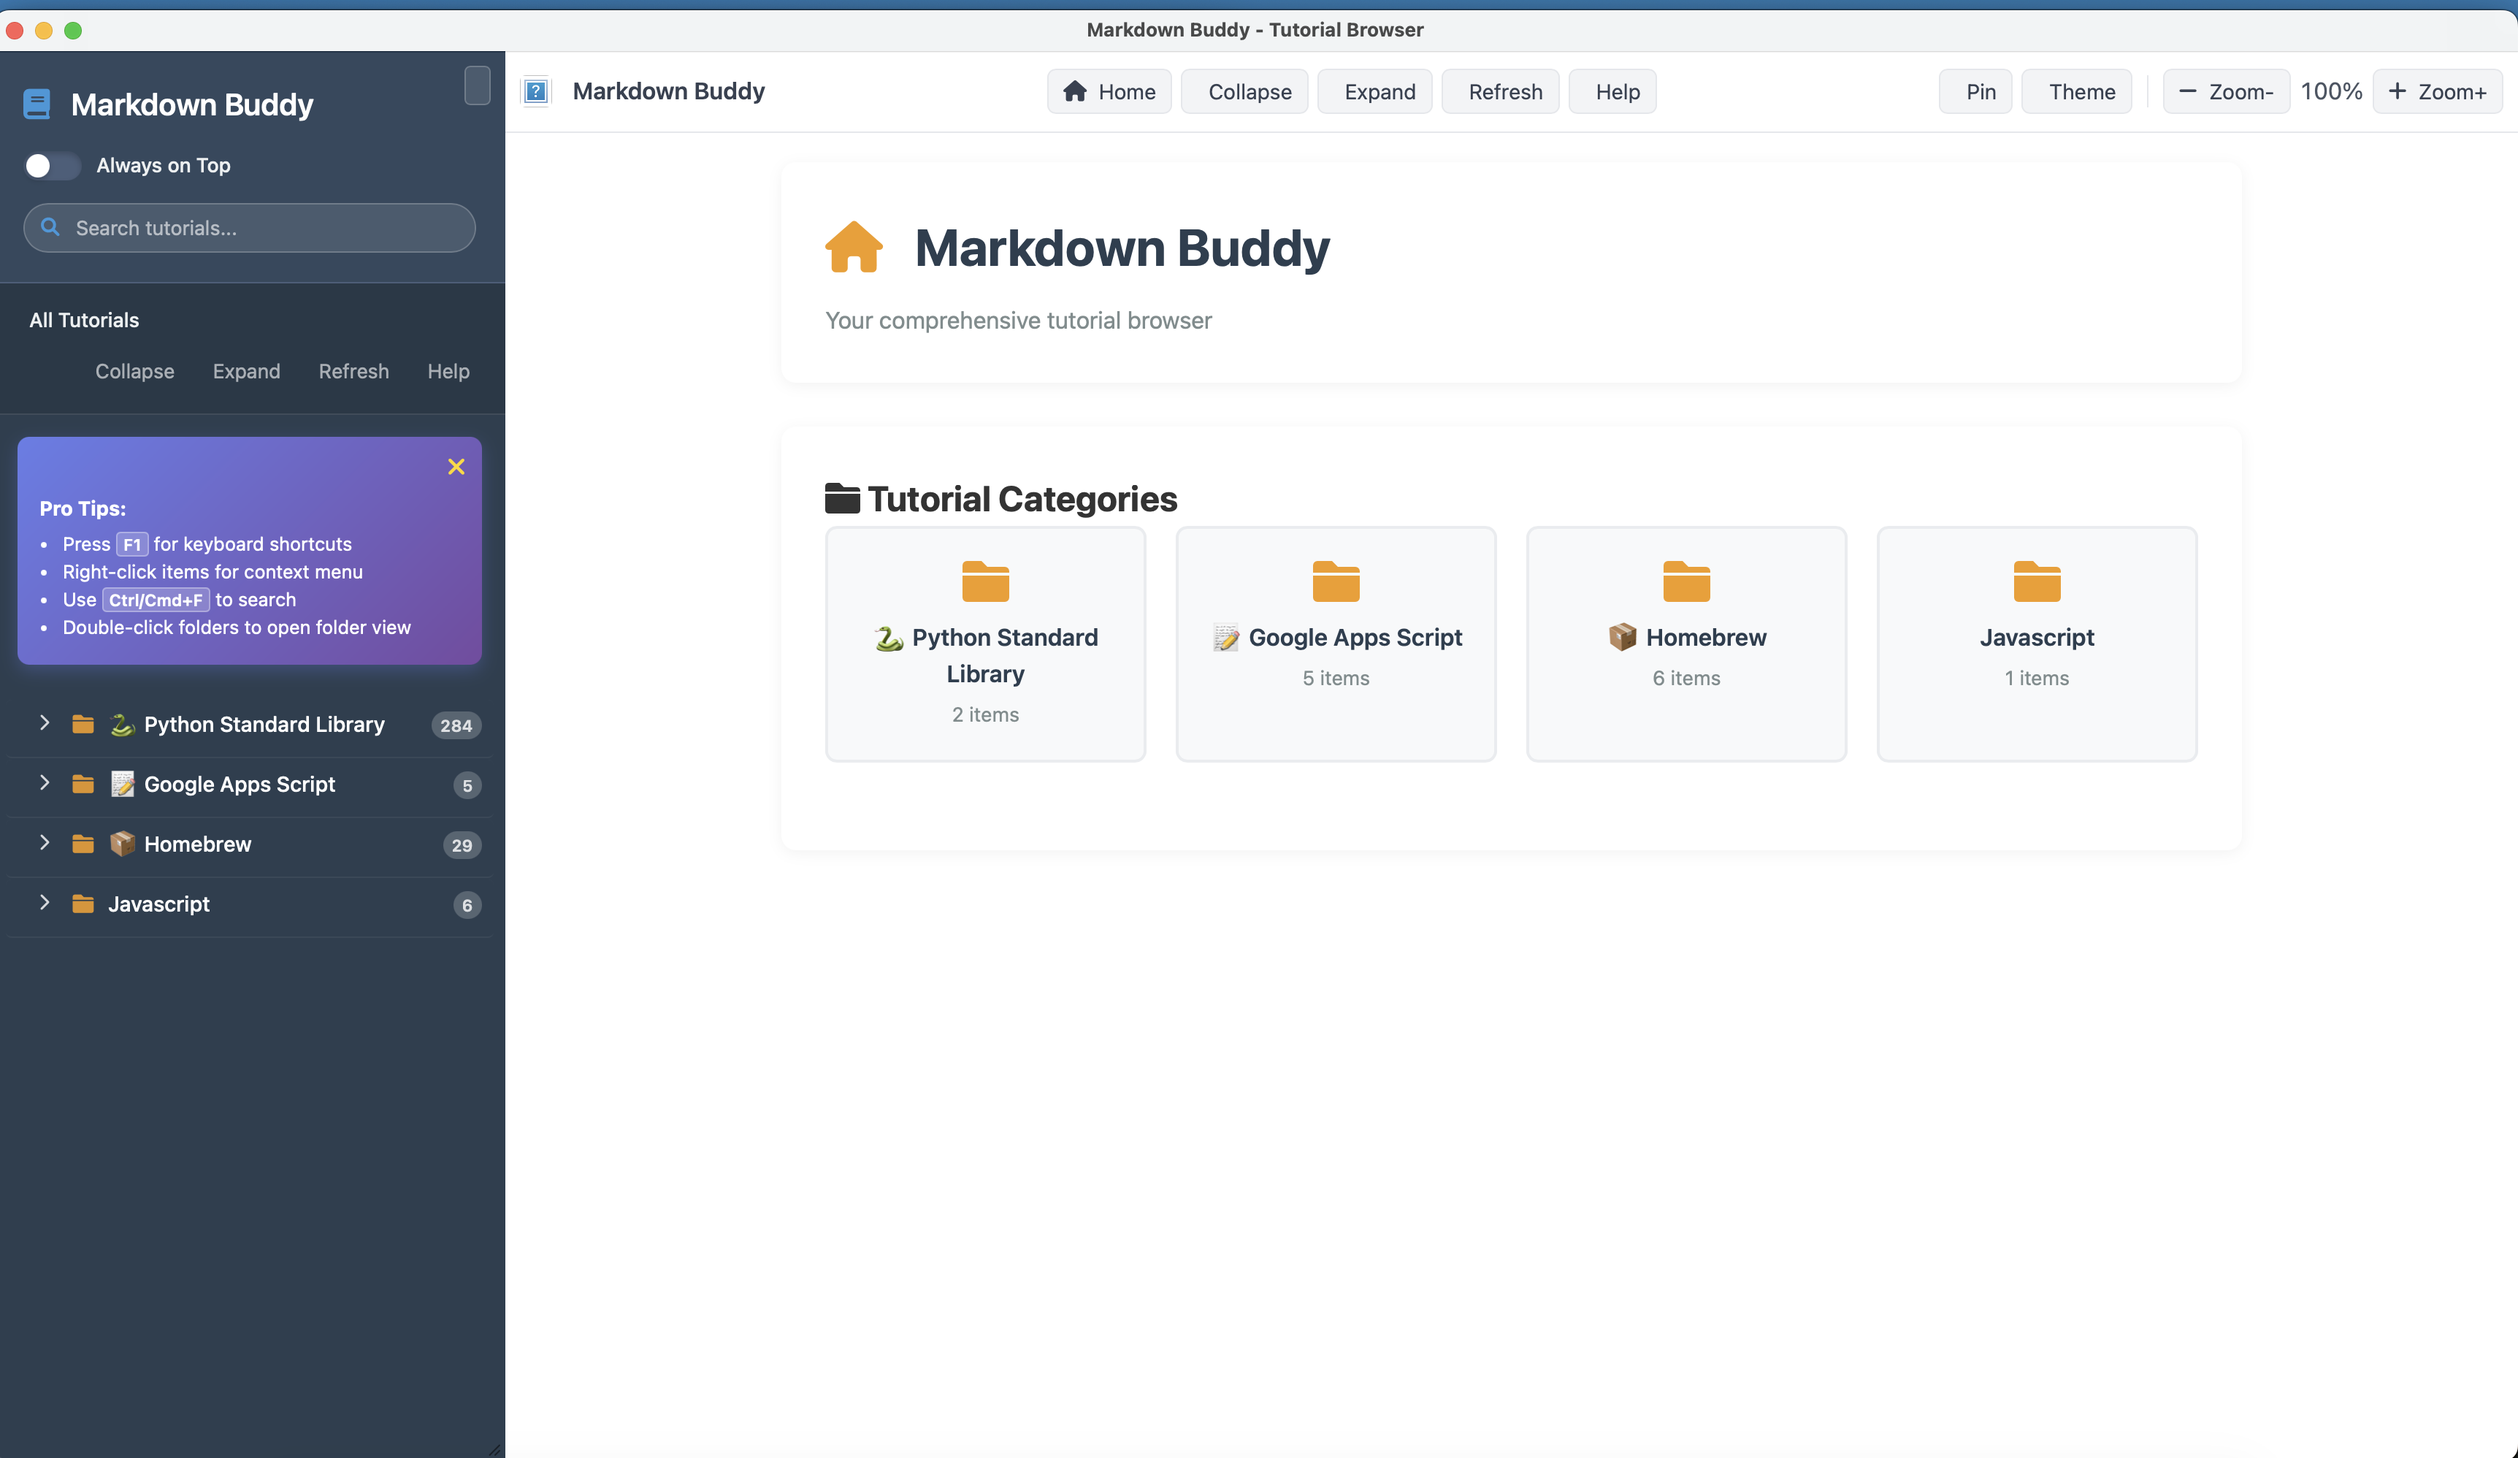
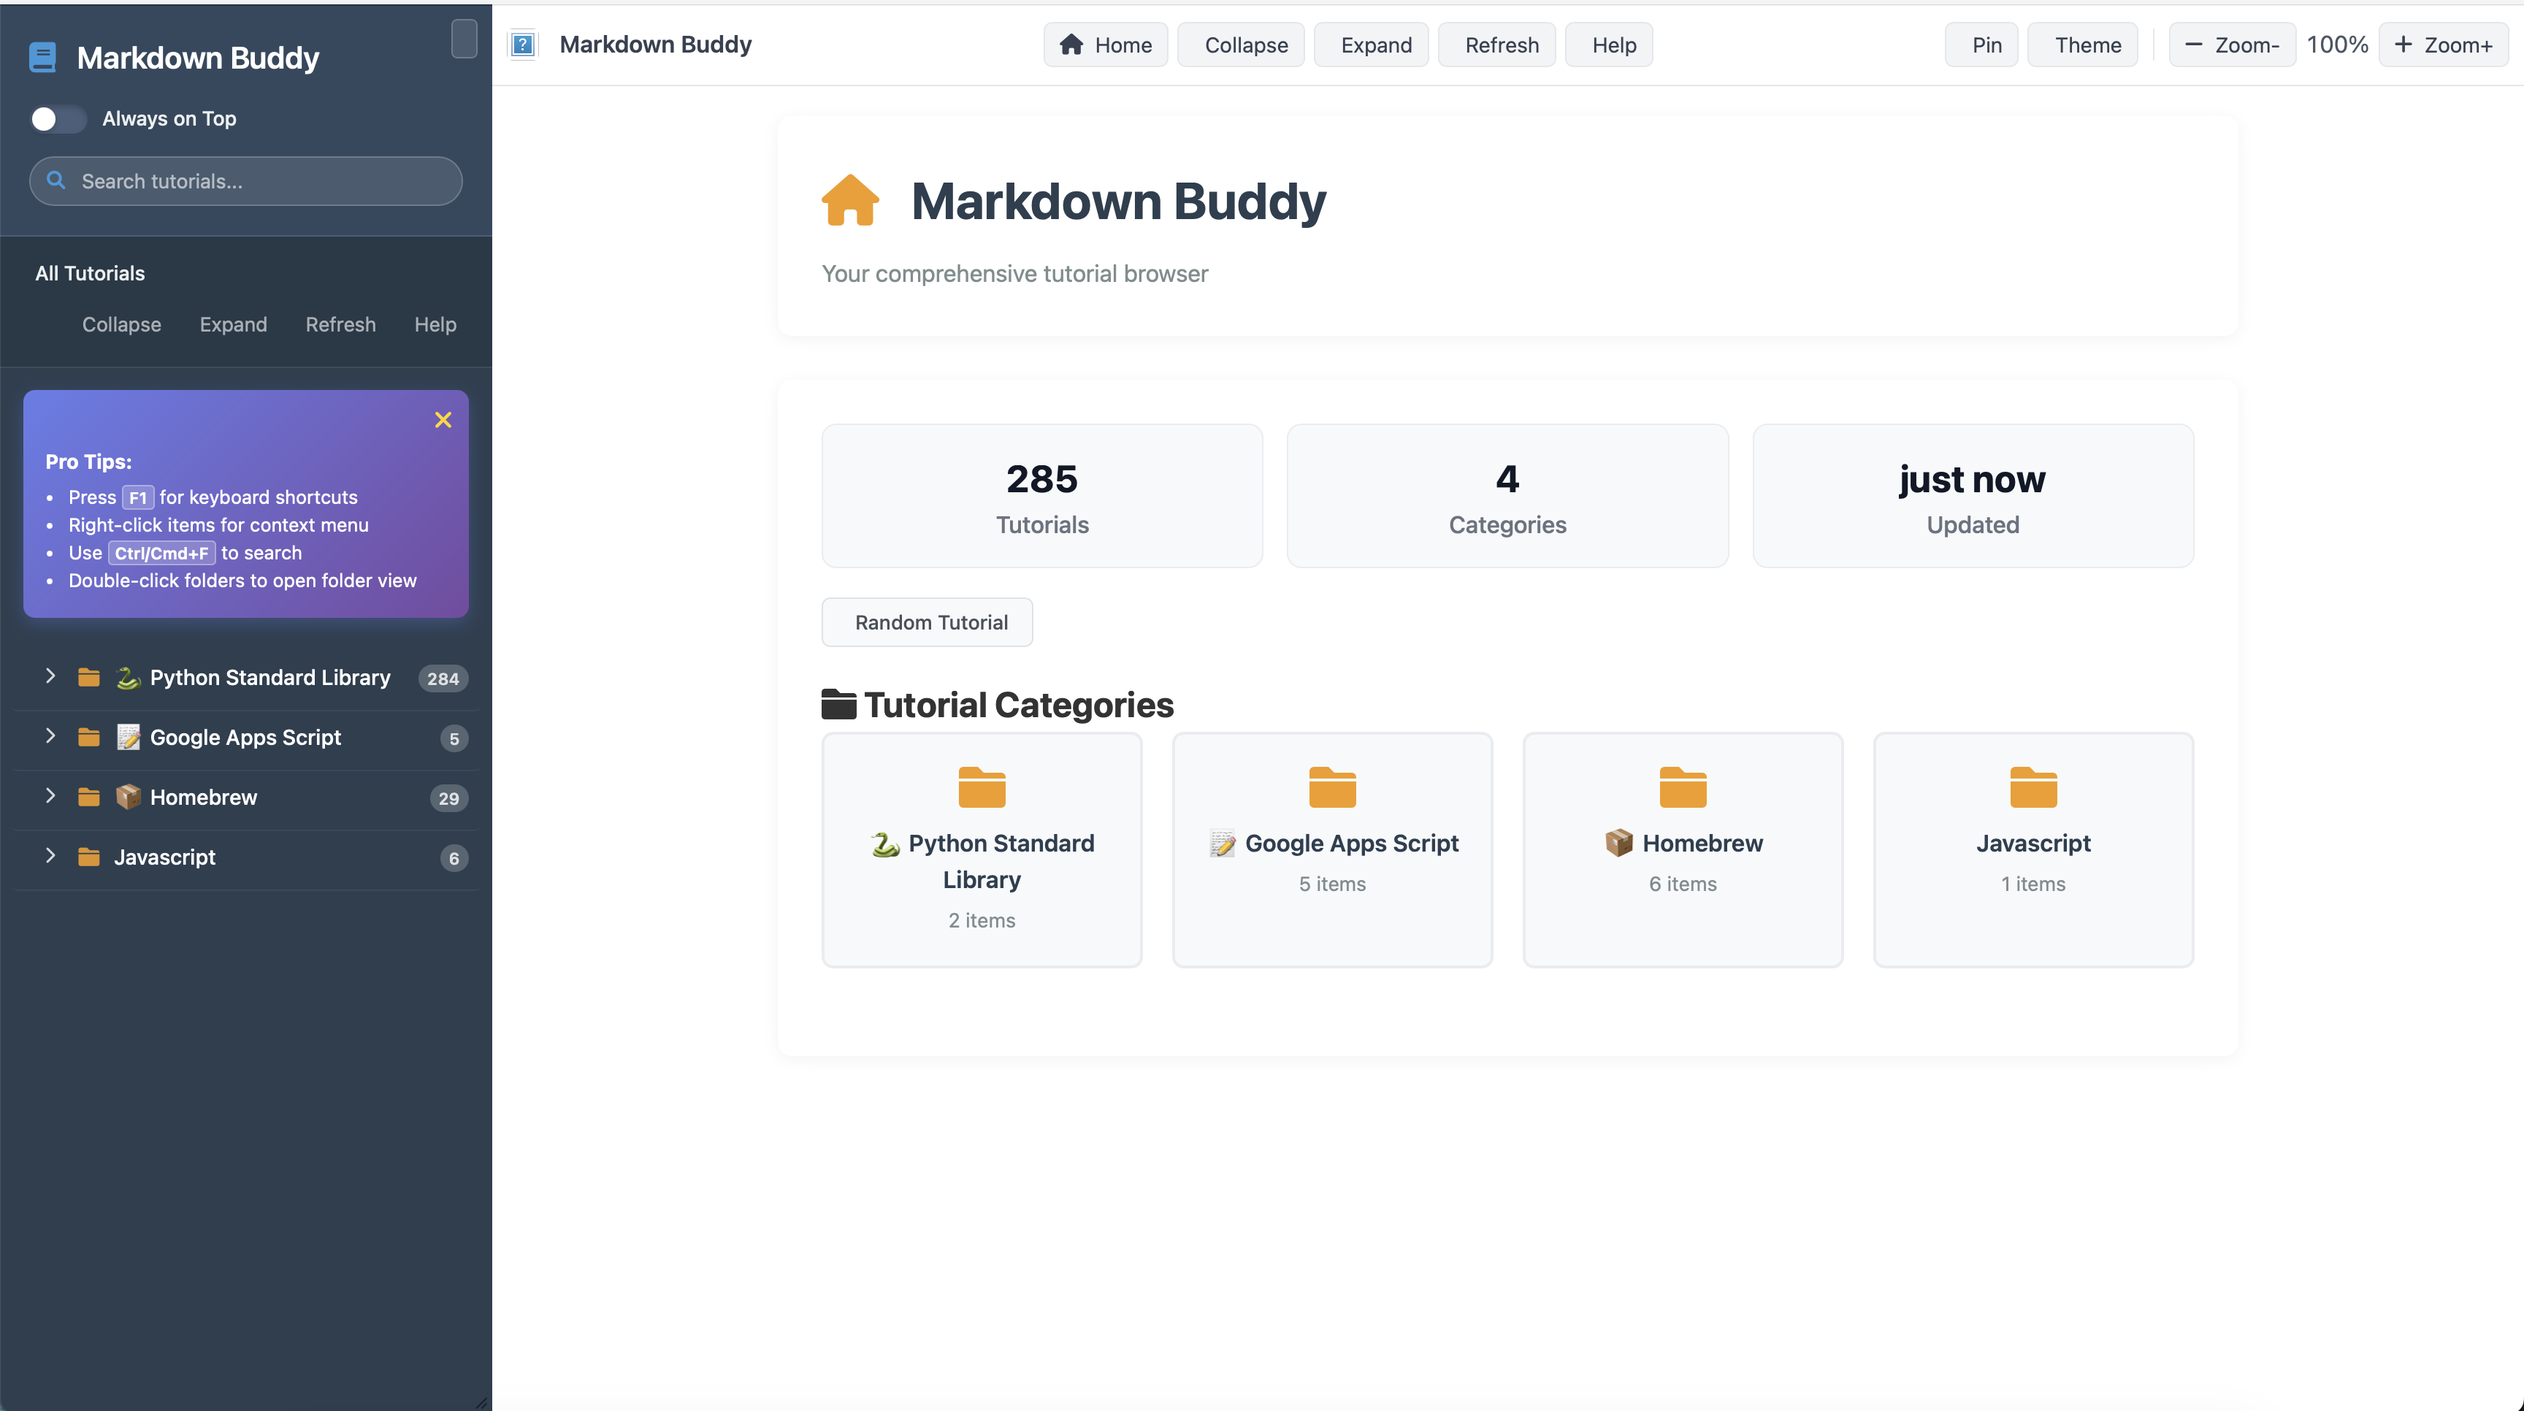
Add random tutorial feature, navigation buttons, and home stats display

diff --git a/resources/js/main.js b/resources/js/main.js
@@ -831,7 +831,8 @@ class MarkdownBuddy {
                 text: 'Open Folder View',
                 action: () => {
                     const path = this.getItemPath(item);
-                    const title = item.querySelector('i').nextSibling.textContent.trim();
+                    const textEl = item.querySelector('.nav-folder-text, .nav-file-text');
+                    const title = textEl ? textEl.textContent.trim() : '';
                     this.showFolderContents(path, title);
                 }
             });
@@ -893,16 +894,17 @@ class MarkdownBuddy {
     }
 
     getItemPath(item) {
-        // Navigate up to find the full path
+        // Walk up the DOM building a path from visible labels
         let path = '';
         let current = item;
-        
-        while (current && current.classList.contains('nav-file') || current.classList.contains('nav-folder')) {
-            const text = current.querySelector('i').nextSibling.textContent.trim();
-            path = text + (path ? '/' + path : '');
-            current = current.parentElement.closest('.nav-folder');
+
+        while (current && (current.classList?.contains('nav-file') || current.classList?.contains('nav-folder'))) {
+            const textEl = current.querySelector('.nav-file-text, .nav-folder-text');
+            const label = textEl ? textEl.textContent.trim() : '';
+            path = label + (path ? '/' + path : '');
+            current = current.parentElement?.closest('.nav-folder');
         }
-        
+
         return path;
     }
 
@@ -2075,6 +2077,9 @@ class MarkdownBuddy {
                 htmlContent = `<pre>${markdownContent}</pre>`;
             }
             
+            // Compute prev/next navigation within the folder
+            const { prev, next } = this.getPrevNextTutorial(path);
+
             const content = `
                 <div class="tutorial-content">
                     <div class="tutorial-header">
@@ -2098,6 +2103,15 @@ class MarkdownBuddy {
                         </div>
                         <div class="markdown-content">
                             ${htmlContent}
+                        </div>
+                        <div class="tutorial-navigation">
+                            <button class="btn-secondary" ${prev ? '' : 'disabled'} ${prev ? `onclick=\"markdownBuddy.loadTutorial('${prev.path}','${prev.title.replace(/['"\\]/g, '')}')\"` : ''}>
+                                <i class="fas fa-arrow-left"></i> ${prev ? `Prev: ${prev.title}` : 'Previous'}
+                            </button>
+                            <div class="tutorial-nav-spacer"></div>
+                            <button class="btn-secondary" ${next ? '' : 'disabled'} ${next ? `onclick=\"markdownBuddy.loadTutorial('${next.path}','${next.title.replace(/['"\\]/g, '')}')\"` : ''}>
+                                ${next ? `Next: ${next.title}` : 'Next'} <i class="fas fa-arrow-right"></i>
+                            </button>
                         </div>
                     </div>
                 </div>
@@ -2131,6 +2145,49 @@ class MarkdownBuddy {
         } catch (error) {
             console.error('Failed to load tutorial:', error);
             this.showError('Failed to load tutorial. Please try again.');
+        }
+    }
+
+    getPrevNextTutorial(path) {
+        try {
+            // Normalize path (strip leading resources/ if present)
+            const relPath = path.startsWith('resources/') ? path.replace(/^resources\/tutorials\//, '') : path;
+            const parts = relPath.split('/');
+            if (parts.length < 1) return { prev: null, next: null };
+
+            const fileKey = parts.pop();
+            const parentPath = parts.join('/');
+
+            // Find parent folder children
+            const parentData = this.getFolderData(parentPath);
+            const children = parentData && parentData.children ? parentData.children : null;
+            if (!children) return { prev: null, next: null };
+
+            // Collect only files within this folder
+            const files = Object.keys(children)
+                .filter(k => children[k].type === 'file')
+                .map(k => ({ key: k, item: children[k] }));
+
+            if (files.length === 0) return { prev: null, next: null };
+
+            // Sort by display name for stable navigation
+            files.sort((a, b) => (a.item.name || a.key).localeCompare(b.item.name || b.key, undefined, { sensitivity: 'base' }));
+
+            const idx = files.findIndex(f => f.key === fileKey || f.item.path === path || f.item.path?.endsWith('/' + fileKey));
+            if (idx === -1) return { prev: null, next: null };
+
+            const mk = (entry) => entry ? {
+                path: parentPath ? `${parentPath}/${entry.key}` : entry.key,
+                title: entry.item.name || entry.key.replace(/\.md$/, '')
+            } : null;
+
+            return {
+                prev: mk(files[idx - 1] || null),
+                next: mk(files[idx + 1] || null)
+            };
+        } catch (e) {
+            console.warn('getPrevNextTutorial failed:', e);
+            return { prev: null, next: null };
         }
     }
 
@@ -2521,7 +2578,24 @@ class MarkdownBuddy {
         let folderHtml = '';
         
         if (this.navigationData && Object.keys(this.navigationData).length > 0) {
-            folderHtml += '<h2><i class="fas fa-folder"></i> Tutorial Categories</h2><div class="folder-grid">';
+            const stats = this._computeStats();
+            const statsHtml = `
+                <div class="home-stats">
+                    <div class="stat-card"><div class="stat-value">${stats.tutorials}</div><div class="stat-label">Tutorials</div></div>
+                    <div class="stat-card"><div class="stat-value">${stats.categories}</div><div class="stat-label">Categories</div></div>
+                    <div class="stat-card"><div class="stat-value">${stats.updated}</div><div class="stat-label">Updated</div></div>
+                </div>
+            `;
+
+            const actionsHtml = `
+                <div class="home-actions">
+                    <button class="btn-secondary" onclick="markdownBuddy.openRandomTutorial()" title="Open a random tutorial">
+                        <i class="fas fa-random"></i> Random Tutorial
+                    </button>
+                </div>
+            `;
+
+            folderHtml += statsHtml + actionsHtml + '<h2><i class="fas fa-folder"></i> Tutorial Categories</h2><div class="folder-grid">';
             
             Object.keys(this.navigationData).forEach(key => {
                 const item = this.navigationData[key];
@@ -2595,6 +2669,54 @@ class MarkdownBuddy {
         document.querySelectorAll('.nav-folder, .nav-file').forEach(item => {
             item.classList.remove('active');
         });
+    }
+
+    _computeStats() {
+        // Count total tutorials (files) and top-level categories
+        let tutorials = 0;
+        const countFiles = (node) => {
+            Object.values(node).forEach(item => {
+                if (item.type === 'file') tutorials += 1;
+                if (item.type === 'folder' && item.children) countFiles(item.children);
+            });
+        };
+        try { countFiles(this.navigationData || {}); } catch {}
+        const categories = this.navigationData ? Object.keys(this.navigationData).length : 0;
+        // Simple relative time display
+        const updated = 'just now';
+        return { tutorials, categories, updated };
+    }
+
+    getAllTutorialFiles() {
+        const files = [];
+        const walk = (node, prefix = '') => {
+            Object.keys(node || {}).forEach(key => {
+                const item = node[key];
+                if (!item) return;
+                if (item.type === 'file') {
+                    const path = item.path ? item.path : (prefix ? `${prefix}/${key}` : key);
+                    const title = item.name || key.replace(/\.md$/, '');
+                    files.push({ path, title });
+                } else if (item.type === 'folder' && item.children) {
+                    const newPrefix = prefix ? `${prefix}/${key}` : key;
+                    walk(item.children, newPrefix);
+                }
+            });
+        };
+        try { walk(this.navigationData || {}, ''); } catch {}
+        return files;
+    }
+
+    openRandomTutorial() {
+        const files = this.getAllTutorialFiles();
+        if (!files.length) {
+            this.showNotification('No tutorials found', true);
+            return;
+        }
+        const idx = Math.floor(Math.random() * files.length);
+        const pick = files[idx];
+        this.loadTutorial(pick.path, pick.title);
+        try { this.showNotification(`Random: ${pick.title}`); } catch {}
     }
 
     showError(message) {

diff --git a/resources/styles.css b/resources/styles.css
@@ -1223,6 +1223,21 @@ body {
     gap: 20px;
 }
 
+/* Tutorial Prev/Next Navigation */
+.tutorial-navigation {
+    display: flex;
+    align-items: center;
+    gap: 12px;
+    margin-top: 12px;
+}
+.tutorial-navigation .tutorial-nav-spacer {
+    flex: 1;
+}
+.tutorial-navigation .btn-secondary[disabled] {
+    opacity: 0.6;
+    cursor: not-allowed;
+}
+
 /* Table of Contents */
 .table-of-contents {
     background: white;
@@ -1353,6 +1368,40 @@ body {
     max-width: 1000px;
     margin: 0 auto;
 }
+
+/* Home Stats */
+.home-stats {
+    display: grid;
+    grid-template-columns: repeat(auto-fit, minmax(160px, 1fr));
+    gap: 16px;
+    margin-bottom: 20px;
+}
+.home-actions {
+    display: flex;
+    gap: 10px;
+    margin-bottom: 20px;
+}
+.stat-card {
+    background: #f8f9fa;
+    border: 1px solid #e9ecef;
+    border-radius: 10px;
+    padding: 16px;
+    text-align: center;
+}
+.stat-value {
+    font-size: 1.6rem;
+    font-weight: 700;
+    color: #111827;
+}
+.stat-label {
+    color: #6b7280;
+    font-weight: 500;
+}
+
+/* Dark theme overrides for new components */
+body.theme-dark .home-stats .stat-card { background: #0f172a; border-color: #1f2937; }
+body.theme-dark .home-stats .stat-value { color: #e5e7eb; }
+body.theme-dark .home-stats .stat-label { color: #9ca3af; }
 
 .folder-header {
     background: white;

diff --git a/README.md b/README.md
@@ -34,6 +34,7 @@ A modern, feature-rich desktop application for browsing and viewing markdown-bas
 - **🎨 Visual Feedback** - Smooth animations and modern UI interactions
 - **🧰 Toolbar with Labeled Actions** - Home, Collapse/Expand All, Refresh, Help, Pin, Theme, Zoom-/Zoom+
 - **📁 Sidebar Controls** - Width toggle/expand/collapse with saved width
+- **🎲 Random Tutorial (Home)** - One-click action to open a random tutorial from the library
 
 ### 🪟 **Window Management**
 
@@ -135,6 +136,10 @@ neu build
 - Collapse Sidebar: Fully collapse to icon bar (Cmd/Ctrl+Shift+B)
 - Search Box: Type to filter tutorials; results list shows names and paths; Esc clears
 - Inline Actions: Collapse/Expand/Refresh buttons at the top of navigation
+
+### 🏠 Home Actions
+
+- Random Tutorial: On the home screen, click “Random Tutorial” to jump to a random tutorial. A toast will show the picked title.
 
 ### 🔥 **Quick Start Shortcuts**
 
